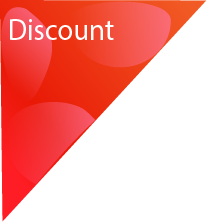
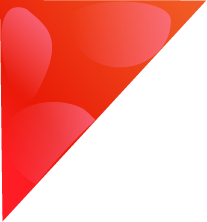
update

Changed region(s): [[0.029, 0.0811, 0.5507, 0.1892]]

diff --git a/wp-content/themes/shoppingcart/style.css b/wp-content/themes/shoppingcart/style.css
@@ -3032,25 +3032,34 @@ html[xmlns] .brand-slider .slides {
 
 .sc-grid-product-img .onsale-top {
     color: #fff;
-    font-size: 40px;
+    font-size: 42px;
     position: absolute;
     top: 0px;
     left: 0;
     z-index: 1;
     text-transform: uppercase;
     padding: 0.3em 0.05em;
-    font-weight: 700;
     text-align: center;
-    width: 53px;  
+    width: 62px;  
+    font-family: montserratSemiBold;
 }
 
 .sc-grid-product-img .onsale-top .percent {
-    font-size: 18px;
+    font-size: 22px;
     position: absolute;
     top: 27px;
+    font-family: montserratSemiBold;
 }
 
-
+.sc-grid-product-img .text-discount{
+    font-size: 16px;
+    position: absolute;
+    top: 0px;
+    z-index: 3;
+    left: 5px;
+    color: #fff;
+    font-family: montserratSemiBold;
+}
 
 .sc-grid-product-img .onsale-top:before {
   background-image: url(/wp-content/themes/shoppingcart/images/top_nonumber.png);
@@ -3058,8 +3067,8 @@ html[xmlns] .brand-slider .slides {
   background-position: center;
   background-size: contain;
   content: "";
-  width: 110px;
-  height: 118px;
+  width: 129px;
+  height: 140px;
   position: absolute;
   z-index: -1;
   top: 0px;
@@ -4806,21 +4815,33 @@ div.bbp-template-notice, div.indicator-hint {
 	font-size: 20px;
 }
 
+.archive.woocommerce .text-discount{
+    font-size: 16px;
+    position: absolute;
+    top: 0px;
+    z-index: 999;
+    left: 5px;
+    color: #fff;
+    font-family: montserratSemiBold;
+}
+
 .archive.woocommerce ul.products li.product .onsale {
     top: 0;
     left: 0;
     padding: 0.5em 0.05em;    
     margin: 0;
-    font-size: 40px;
+    font-size: 42px;
     text-align: center;
     min-width: unset;
-    width: 49px;
+    width: 62px;
+    font-family: montserratSemiBold;
 }
 
 .archive.woocommerce ul.products li.product .onsale .percent {
-    font-size: 18px;
+    font-size: 22px;
     position: absolute;
-    top: 30px;
+    top: 32px;
+    font-family: montserratSemiBold;
 }
 
 .archive.woocommerce span.onsale:before {
@@ -4829,13 +4850,15 @@ div.bbp-template-notice, div.indicator-hint {
   background-position: center;
   background-size: contain;
   content: "";
-  width: 110px;
-  height: 118px;
+  width: 129px;
+  height: 140px;
   position: absolute;
   z-index: -1;
   top: 0px;
   left: 0px;
 }
+
+
 
 /*.woocommerce ul.products li.product .archive-imgae-wrap:hover span.onsale:before{
 		top: 10px;

diff --git a/wp-content/themes/shoppingcart/css/product_detail.css b/wp-content/themes/shoppingcart/css/product_detail.css
@@ -393,8 +393,7 @@ article#page-7 .entry-content .woocommerce form.woocommerce-cart-form table.cart
 
 .woocommerce span.onsale {
     background-color: transparent;
-    font-size: 40px;
-    font-weight: 700;
+    font-size: 42px;
     left: 0px;
     min-height: 2em;
     min-width: unset;
@@ -403,7 +402,8 @@ article#page-7 .entry-content .woocommerce form.woocommerce-cart-form table.cart
     border-radius: 0;
     line-height: unset;
     text-align: center;
-    width: 84px;
+    width: 105px;
+    font-family: montserratSemiBold;
 }
 
 .woocommerce span.onsale:before {
@@ -412,16 +412,51 @@ article#page-7 .entry-content .woocommerce form.woocommerce-cart-form table.cart
     background-position: center;
     background-size: contain;
     content: "";
-    width: 123px;
-    height: 120px;
+    width: 138px;
+    height: 137px;
     position: absolute;
     left: -5px;
     top: 0;
     z-index: -1;
 }
 
-.woocommerce span.onsale .percent {
-    font-size: 25px;
+.woocommerce span.onsale-detail:after {
+    content: "";
+    width: 104px;
+    height: 97px;
     position: absolute;
-    top: 54px;
+    left: 11px;
+    top: 30px;
+    z-index: -1;
+    border: 3px solid #fff;
 }
+
+.woocommerce span.onsale .percent {
+    font-size: 27px;
+    position: absolute;
+    top: 56px;
+    font-family: montserratSemiBold;
+}
+
+.woocommerce span.text-promotion{
+    font-size: 12px;
+    position: absolute;
+    top: 19px;
+    z-index: 99;
+    left: 15px;
+    color: #fff;
+    font-family: montserratSemiBold;
+    background: #000;
+    padding: 3px 5px;
+}
+
+.woocommerce span.text-discount-detail{
+    font-size: 13px;
+    position: absolute;
+    top: 100px;
+    z-index: 99;
+    left: 33px;
+    color: #fff;
+    font-family: montserratSemiBold;
+}
+

diff --git a/wp-content/plugins/woocommerce/templates/content-widget-product.php b/wp-content/plugins/woocommerce/templates/content-widget-product.php
@@ -34,7 +34,7 @@ $discount = ($regular_price - $price)/$regular_price*100;
 
 	<figure class="sc-grid-product-img">
 		<?php if ( $product->is_on_sale() ) { ?>
-			<?php echo apply_filters( 'woocommerce_sale_flash', '<span class="onsale-top">' . $discount . '<span class="percent">%</span></span>', $post, $product ); ?>
+			<?php echo apply_filters( 'woocommerce_sale_flash', '<span class="text-discount">Discount</span><span class="onsale-top">' . $discount . '<span class="percent">%</span></span>', $post, $product ); ?>
 		<?php } ?>
 		<a href="<?php echo esc_url( get_permalink( $product->get_id() ) ); ?>" alt="<?php the_title_attribute();?>">
 		<!-- <img src="<?php echo esc_url( $image_attribute[0] ); ?>" alt="<?php the_title_attribute();?>"> -->

diff --git a/wp-content/plugins/woocommerce/templates/single-product/sale-flash.php b/wp-content/plugins/woocommerce/templates/single-product/sale-flash.php
@@ -26,7 +26,7 @@ $discount = ($regular_price - $price)/$regular_price*100;
 ?>
 <?php if ( $product->is_on_sale() ) : ?>
 
-	<?php echo apply_filters( 'woocommerce_sale_flash', '<span class="onsale">' . $discount . '<span class="percent">%</span></span>', $post, $product ); ?>
+	<?php echo apply_filters( 'woocommerce_sale_flash', '<span class="text-promotion">Promotion</span><span class="onsale onsale-detail">' . $discount . '<span class="percent">%</span></span><span class="text-discount-detail">Discount</span>', $post, $product ); ?>
 
 	<?php
 endif;

diff --git a/wp-content/plugins/woocommerce/templates/loop/sale-flash.php b/wp-content/plugins/woocommerce/templates/loop/sale-flash.php
@@ -26,7 +26,7 @@ $discount = ($regular_price - $price)/$regular_price*100;
 ?>
 <?php  if ( $product->is_on_sale() ) : ?>
 
-	<?php echo apply_filters( 'woocommerce_sale_flash', '<span class="onsale">' . $discount . '<span class="percent">%</span></span>', $post, $product ); ?>
+	<?php echo apply_filters( 'woocommerce_sale_flash', '<span class="text-discount">Discount</span><span class="onsale">' . $discount . '<span class="percent">%</span></span>', $post, $product ); ?>
 
 	<?php
  endif;
